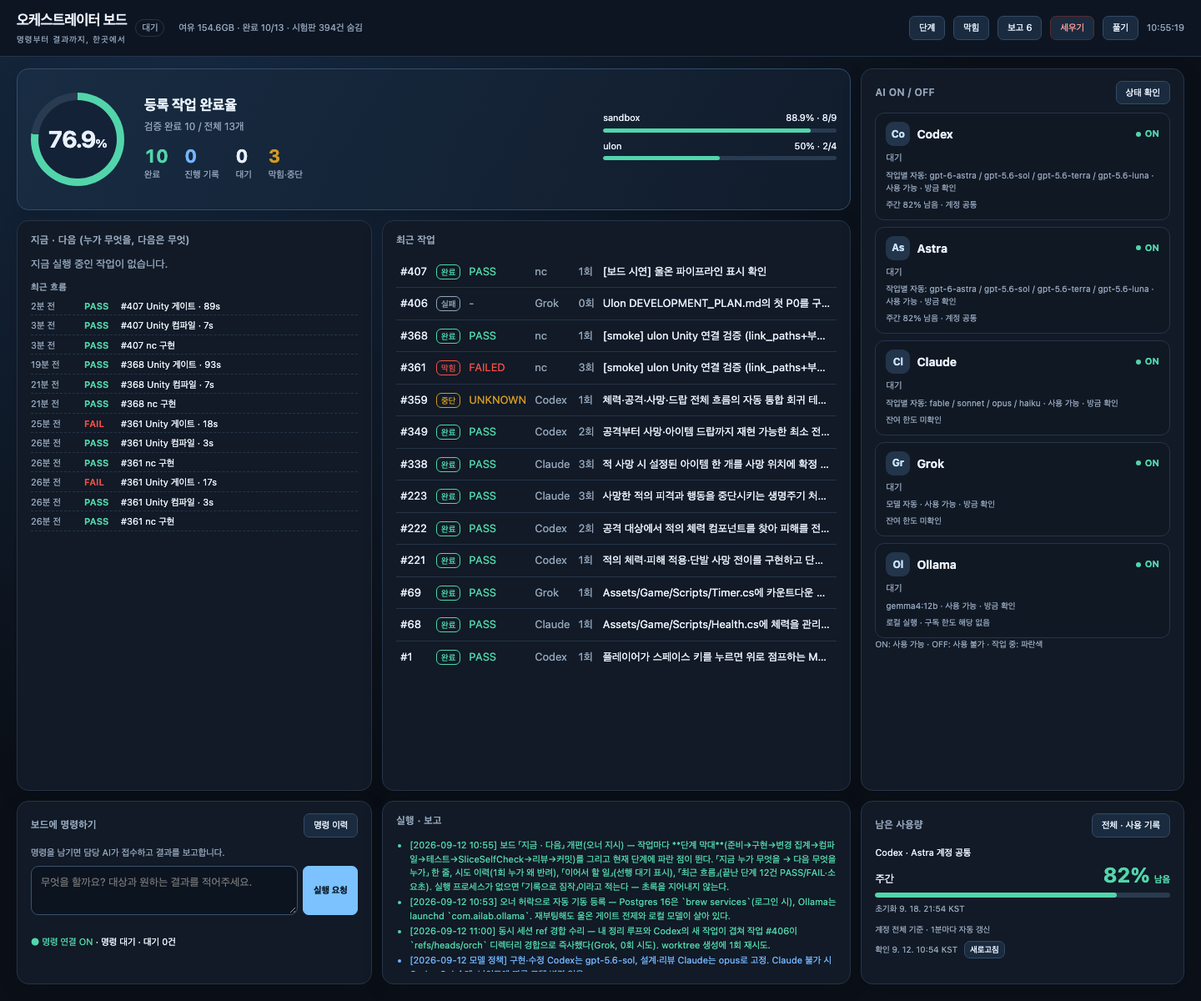
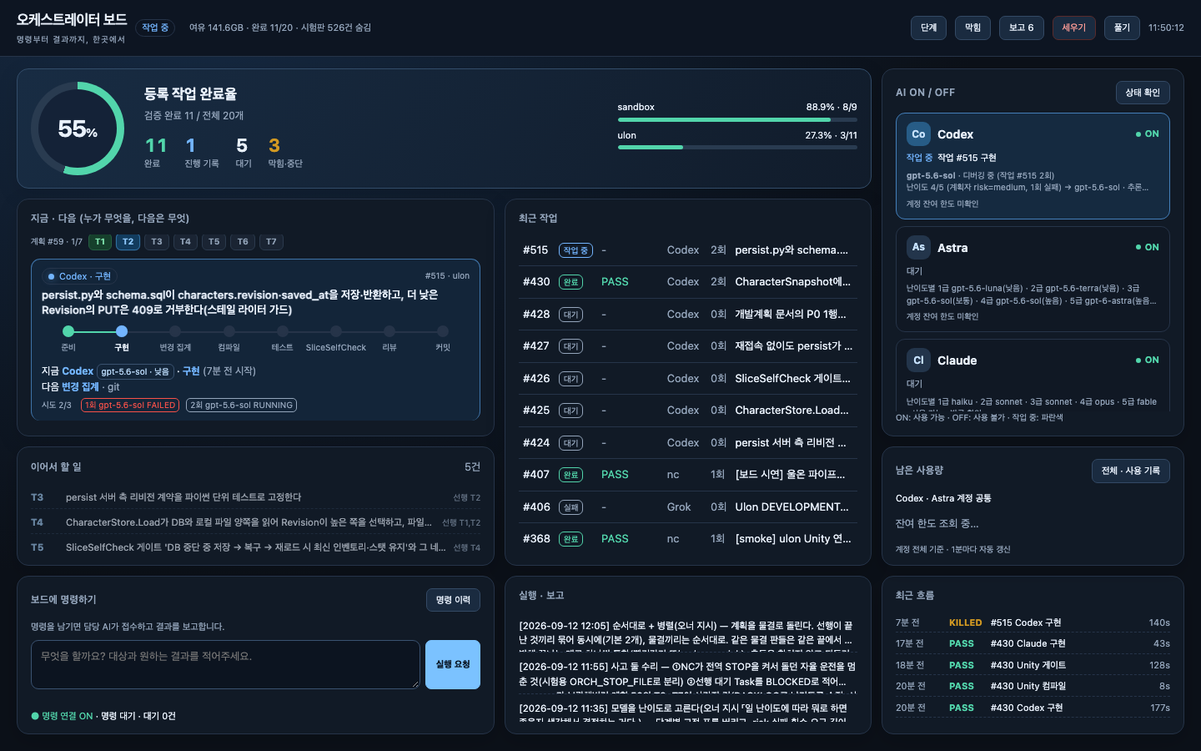
feat(board): 화면 개선 — 계획 진행 칩·병렬 판 나란히·대기열/흐름 카드 분리·실행 보고 접기
- 계획 진행 칩: 지금 도는 계획의 Task를 T1 완료 / T2 진행 / T3~ 대기로 한 줄에
- 「지금」은 auto-fit 격자 — 병렬로 두 판이 돌면 나란히 뜬다(세로로 쌓으면 아래가 화면 밖)
- 「이어서 할 일」·「최근 흐름」을 각자 카드로: 빈 여백이 사라지고 최근 작업이 두 배로 보인다
- 파이프라인: 테두리·모델 칩(gpt-5.6-sol · 낮음)·시도 이력 칩, 난이도 사유는 툴팁
- 실행·보고: 마크다운 기호를 걷어내고 두 줄로 접기(누르면 펼침, 위임 리스너)
- AI 카드: 난이도별 모델표를 두 줄로 클램프, 카드 안 스크롤
- 인라인 onclick의 따옴표가 템플릿 문자열을 깨뜨려 화면이 통째로 비었다 → node --check로 확인

diff --git a/projects/orchestrator/tools/board.py b/projects/orchestrator/tools/board.py
@@ -17,6 +17,7 @@ from __future__ import annotations
 
 import html
 import json
+import re
 import os
 import sqlite3
 import sys
@@ -426,6 +427,26 @@ def gather() -> dict:
         card['tiers'] = src.get('tiers') or []
         card['now'] = src.get('now')
         card['last'] = src.get('last')
+    # 지금 도는 계획의 Task를 한 줄 칩으로 — 어디까지 왔고 무엇이 남았는지가 한눈에 보이게.
+    plan_chips = {}
+    live_plan = next((t["plan_id"] for t in running if t["plan_id"]),
+                     next((t["plan_id"] for t in real if t["plan_id"] and t["status"] == "BACKLOG"), None))
+    if live_plan:
+        seen = {}
+        for r in sorted([t for t in all_tasks if t["plan_id"] == live_plan], key=lambda x: x["id"]):
+            key = r["plan_key"] or f"#{r['id']}"
+            st = r["status"]
+            if st == "ARCHIVED" and r["reason"] == "[계획 자리표시]":
+                continue                      # 자리표시는 상태가 아니다
+            prev = seen.get(key)
+            if prev and prev["state"] == "DONE":
+                continue
+            seen[key] = {"key": key, "state": st, "goal": r["goal"],
+                         "verdict": r["verdict"] or ""}
+        def _key_order(item):
+            m = re.match(r"[A-Za-z]*(\d+)", item["key"] or "")
+            return (int(m.group(1)) if m else 999, item["key"])
+        plan_chips = {"plan_id": live_plan, "items": sorted(seen.values(), key=_key_order)}
     overall = board_metrics.progress(real)
     targets = [{'target':name, **board_metrics.progress([t for t in real if t['target']==name])}
                for name in sorted({t['target'] for t in real})]
@@ -465,7 +486,7 @@ def gather() -> dict:
         "stopped": STOP.exists(),
         "free_gb": free,
         "current": cur,
-        "pipeline": pipeline, "upnext": upnext, "flow": flow,
+        "pipeline": pipeline, "upnext": upnext, "flow": flow, "plan_chips": plan_chips,
         "tasks": [dict(t) for t in tasks],
         "blocked": [dict(t) for t in blocked],
         "live": [dict(p) for p in live],
@@ -514,7 +535,7 @@ h1{font-size:15px;margin:0;font-weight:600}
       grid-template-rows:auto minmax(0,1fr) auto;flex:1;min-height:0;
       grid-template-areas:"now tasks phases" "stuck tasks prov" "cmd exec usage"}
 @media (max-width:900px){body{height:auto;overflow:auto}.grid{flex:none;grid-template-columns:1fr;
-      grid-template-areas:"now" "tasks" "exec" "stuck" "prov" "phases" "cmd" "usage"}}
+      grid-template-areas:"now" "queue" "tasks" "flow" "exec" "stuck" "prov" "phases" "cmd" "usage"}}
 #c-now{grid-area:now}#c-tasks{grid-area:tasks}#c-phases{grid-area:phases}
 #c-stuck{grid-area:stuck}#c-cmd{grid-area:cmd}#c-exec{grid-area:exec}#c-usage{grid-area:usage}#c-prov{grid-area:prov}
 /* 상세는 한 화면 철칙을 깨지 않도록 덮어서 띄운다 — 목록이 밀려나면 전체가 안 보인다. */
@@ -555,10 +576,16 @@ header{min-height:64px;flex-wrap:wrap;gap:10px;padding:12px 20px;background:#0d1
 .brand small{display:block;color:var(--mute);font-size:10px;letter-spacing:1.2px;margin-top:2px}
 h1{font-size:17px;letter-spacing:-.4px}
 #disk{border:0}#clock{font-size:11px}
-.grid{padding:14px 20px 20px;gap:12px;grid-template-columns:minmax(0,1.1fr) minmax(0,1.45fr) minmax(270px,1fr);
- grid-template-rows:170px minmax(190px,1fr) 220px;grid-template-areas:"progress progress prov" "now tasks prov" "cmd exec usage"}
+.grid{padding:14px 20px 20px;gap:12px;grid-template-columns:minmax(0,1.5fr) minmax(0,1.15fr) minmax(280px,.95fr);
+ grid-template-rows:144px minmax(250px,1.2fr) minmax(120px,.6fr) 190px;
+ grid-template-areas:"progress progress prov" "now tasks prov" "queue tasks usage" "cmd exec flow"}
 #c-progress{grid-area:progress;background:linear-gradient(120deg,#182c43,#111c2b);border-color:#334d6a}
 #c-phases,#c-stuck{display:none}
+#c-now{grid-area:now}#c-queue{grid-area:queue}#c-flow{grid-area:flow}#c-tasks{grid-area:tasks}
+/* 병렬로 두 판이 돌면 나란히 — 세로로 쌓으면 아래쪽 판이 화면 밖으로 밀린다 */
+#now{display:grid;gap:10px;grid-template-columns:repeat(auto-fit,minmax(330px,1fr));align-items:start;overflow:auto;min-height:0}
+#c-now{min-height:0}#queue,#flow,#tasks,#execlog{overflow:auto;min-height:0}
+#now>.mute,#now>.upnext{grid-column:1/-1}
 .card{border-radius:14px;padding:14px 16px;box-shadow:0 7px 24px #0002}
 .card h2{letter-spacing:.03em;font-size:12px;margin-bottom:10px}
 .card-head{display:flex;align-items:center;justify-content:space-between;gap:8px;flex-shrink:0}
@@ -576,8 +603,41 @@ h1{font-size:17px;letter-spacing:-.4px}
 .ai-head{display:flex;align-items:center;gap:8px}.ai-avatar{display:grid;place-items:center;width:29px;height:29px;border-radius:9px;background:#23354b;color:#c8e3ff;font-weight:700;font-size:12px}
 .ai-name{font-size:14px;font-weight:650;flex:1}.power{font-weight:700;font-size:11px;display:flex;align-items:center;gap:5px}.power:before{content:"";width:6px;height:6px;border-radius:50%;background:currentColor}.power.on{color:var(--ok)}.power.off{color:#9aa4b5}.power.unknown{color:#e2b46d}
 .ai-work{font-size:11px;margin-top:6px;display:flex;gap:6px;flex-wrap:wrap}.ai-meta{font-size:10px;color:var(--mute);margin-top:5px}.busy .ai-avatar{background:#275c86}.live-dot{display:inline-block;width:7px;height:7px;border-radius:50%;background:var(--run);box-shadow:0 0 10px #73b5ff80;margin-right:6px}
-.pipe{border-bottom:1px solid var(--line);padding:8px 0 12px}.pipe:last-child{border-bottom:0}.pipe h3{font-size:13px;margin:4px 0 8px;font-weight:550}.pipe .meta{font-size:11px;color:var(--mute);margin-top:6px}
-.steps{display:flex;align-items:flex-start;gap:0;overflow-x:auto;padding:4px 0}.step{display:flex;flex-direction:column;align-items:center;min-width:64px;flex:1;position:relative;font-size:10px;color:var(--mute);text-align:center}.step:not(:last-child):after{content:"";position:absolute;top:7px;left:50%;width:100%;height:2px;background:var(--line);z-index:0}.step.done:not(:last-child):after{background:var(--ok)}.step .dot{width:14px;height:14px;border-radius:50%;background:var(--line);border:2px solid var(--line);z-index:1;box-sizing:border-box}.step.done .dot{background:var(--ok);border-color:var(--ok)}.step.cur .dot{background:var(--run,#4ea1ff);border-color:var(--run,#4ea1ff);box-shadow:0 0 0 4px rgba(78,161,255,.25);animation:pulse 1.4s infinite}.step.cur{color:var(--fg,#e6ebf2);font-weight:650}.step .nm{margin-top:5px;white-space:nowrap}.step .wh{font-size:9px;opacity:.8}
+.pipe{border:1px solid var(--line);border-radius:11px;padding:10px 12px;background:#101824}
+.pipe.live{border-color:#3f74a8;background:#132539}
+.pipe-top{display:flex;align-items:center;justify-content:space-between;gap:8px}
+.pipe-id{font-size:10px;color:var(--mute);white-space:nowrap}
+.pipe h3{font-size:12.5px;margin:6px 0 8px;font-weight:600;line-height:1.35;display:-webkit-box;-webkit-line-clamp:2;-webkit-box-orient:vertical;overflow:hidden}
+.chip{display:inline-block;border:1px solid #3a5270;border-radius:6px;padding:1px 5px;font-size:10px;color:#b7d6f5;white-space:nowrap}
+.why{font-size:10px;color:var(--mute);margin-top:6px;line-height:1.4}
+.try{display:inline-block;border:1px solid currentColor;border-radius:5px;padding:0 4px;margin-right:4px}
+.planbar{display:flex;flex-wrap:wrap;gap:5px;align-items:center;margin:-2px 0 10px}
+.plan-label{font-size:10px;color:var(--mute);margin-right:2px}
+.pchip{font-size:10px;font-weight:700;border-radius:6px;padding:2px 7px;border:1px solid transparent}
+.pchip.done{background:#16402c;color:#7ee2ad;border-color:#265f42}
+.pchip.run{background:#123c5e;color:#8fcaff;border-color:#2f6f9f;animation:pulse 1.6s infinite}
+.pchip.wait{background:#1a2433;color:#8fa0b5;border-color:#2b3a4d}
+.pchip.bad{background:#4a2027;color:#ff9f9f;border-color:#733742}
+.exlist{list-style:none;margin:0;padding:0;font-size:11.5px}
+.exlist li{padding:6px 0;border-bottom:1px dashed var(--line);line-height:1.5;cursor:pointer;
+  display:-webkit-box;-webkit-line-clamp:2;-webkit-box-orient:vertical;overflow:hidden}
+.exlist li.open{-webkit-line-clamp:unset;display:block}
+.exlist li:last-child{border-bottom:0}
+#prov{overflow:auto}
+.ai-meta{line-height:1.45;display:-webkit-box;-webkit-line-clamp:2;-webkit-box-orient:vertical;overflow:hidden}
+#c-prov{min-height:0}#prov{min-height:0;flex:1}
+.qlist{list-style:none;margin:0;padding:0;font-size:11.5px;counter-reset:q}
+.qlist li{display:grid;grid-template-columns:34px minmax(0,1fr) auto;gap:8px;align-items:baseline;padding:5px 0;border-bottom:1px dashed var(--line)}
+.qlist li:last-child{border-bottom:0}.qlist .qkey{font-weight:700;color:#9fc7ee}
+.qlist .qgoal{white-space:nowrap;overflow:hidden;text-overflow:ellipsis}
+.qlist .qmeta{font-size:10px;color:var(--mute);white-space:nowrap}
+.qlist li.wait{opacity:.62}
+.flist{list-style:none;margin:0;padding:0;font-size:11px}
+.flist li{display:grid;grid-template-columns:58px 44px minmax(0,1fr) 42px;gap:6px;align-items:baseline;padding:3px 0;border-bottom:1px dashed var(--line)}
+.flist li:last-child{border-bottom:0}.flist .t,.flist .s{color:var(--mute)}.flist .r{font-weight:700}
+.flist .w{white-space:nowrap;overflow:hidden;text-overflow:ellipsis}.flist .s{text-align:right}
+.pipe-old{border-bottom:1px solid var(--line);padding:8px 0 12px}.pipe:last-child{border-bottom:0}.pipe h3{font-size:13px;margin:4px 0 8px;font-weight:550}.pipe .meta{font-size:11px;color:var(--mute);margin-top:6px}
+.steps{display:flex;align-items:flex-start;gap:0;overflow-x:auto;padding:2px 0 4px}.step{display:flex;flex-direction:column;align-items:center;min-width:64px;flex:1;position:relative;font-size:10px;color:var(--mute);text-align:center}.step:not(:last-child):after{content:"";position:absolute;top:7px;left:50%;width:100%;height:2px;background:var(--line);z-index:0}.step.done:not(:last-child):after{background:var(--ok)}.step .dot{width:14px;height:14px;border-radius:50%;background:var(--line);border:2px solid var(--line);z-index:1;box-sizing:border-box}.step.done .dot{background:var(--ok);border-color:var(--ok)}.step.cur .dot{background:var(--run,#4ea1ff);border-color:var(--run,#4ea1ff);box-shadow:0 0 0 4px rgba(78,161,255,.25);animation:pulse 1.4s infinite}.step.cur{color:var(--fg,#e6ebf2);font-weight:650}.step .nm{margin-top:5px;white-space:nowrap}.step .wh{font-size:9px;opacity:.8}
 @keyframes pulse{0%{box-shadow:0 0 0 0 rgba(78,161,255,.45)}70%{box-shadow:0 0 0 7px rgba(78,161,255,0)}100%{box-shadow:0 0 0 0 rgba(78,161,255,0)}}
 .nextline{font-size:12px;margin-top:8px}.nextline b{color:var(--run,#4ea1ff)}.tries{font-size:10px;color:var(--mute);margin-top:4px}.tries span{margin-right:8px}
 .upnext{margin-top:10px}.upnext h4,.flow h4{font-size:11px;color:var(--mute);margin:10px 0 4px;font-weight:600;text-transform:uppercase;letter-spacing:.04em}.upnext ol{margin:0;padding-left:18px;font-size:12px}.upnext li{margin:3px 0}.upnext .wait{color:var(--mute)}.flow ul{list-style:none;margin:0;padding:0;font-size:11px}.flow li{display:flex;gap:8px;padding:2px 0;border-bottom:1px dashed var(--line)}.flow li .t{color:var(--mute);min-width:56px}.flow li .r{min-width:36px;font-weight:600}
@@ -592,9 +652,9 @@ textarea:focus{outline:2px solid #73b5ff;outline-offset:1px}form{margin:8px 0;al
 #connection-status{font-size:10px}.connection-error{color:#ffbc86!important}
 #usage table{font-size:10px}#execlog{font-size:11px}#ovbox{background:#111c2b;border-color:#39516e;overflow-wrap:anywhere}
 .quota-row{margin:4px 0 10px}.quota-label{display:flex;justify-content:space-between;align-items:baseline;gap:8px}.quota-label strong{font-size:25px;font-variant-numeric:tabular-nums;line-height:1.2}.quota-row .track{margin:6px 0;height:6px}.quota-reset,.quota-meta{font-size:10px;color:var(--mute)}.quota-summary{font-size:11px;margin-bottom:4px}.quota-actions{display:flex;gap:8px;align-items:center;margin-top:6px}.quota-actions button{padding:2px 6px;font-size:10px}.quota-bucket{border-bottom:1px solid var(--line);padding:10px 0}.quota-bucket h3{margin:0 0 6px!important}.ai-quota{font-size:10px;color:var(--mute);margin-top:5px}
-@media(max-width:1050px) and (min-width:901px){.grid{grid-template-columns:minmax(0,1fr) minmax(0,1.2fr) 260px}.target-list{display:none}.counts{gap:14px}.progress-content{gap:16px}.ring{width:96px;height:96px}}
-@media(max-width:900px){header{position:relative;padding:12px;gap:8px}#disk,#clock{display:none}header button{padding:5px 8px}.brand{flex:1}.grid{padding:10px;display:grid;grid-template-columns:minmax(0,1fr);grid-template-rows:auto;grid-template-areas:"progress" "cmd" "now" "prov" "tasks" "exec" "usage";gap:10px}.card{min-height:100px}.progress-content{min-height:132px;gap:16px}.ring{width:98px;height:98px}.target-list{display:none}.counts{gap:18px}.ai-card{padding:12px}#c-cmd{min-height:198px}#prov{display:grid;grid-template-columns:repeat(2,minmax(0,1fr))}#ov{padding:12px}.ai-name{font-size:12px}.ai-head{gap:6px}.ai-avatar{width:23px;height:23px;font-size:10px}.power{font-size:10px}}
-@media(max-height:790px) and (min-width:901px){.grid{grid-template-rows:145px minmax(120px,1fr) 180px}.card{padding:10px 13px}.ring{width:95px;height:95px}.ai-card{padding:7px 10px}.ai-meta{margin-top:3px}.card h2{margin-bottom:6px}.target-list{max-height:90px}textarea{min-height:45px}.ai-work{margin-top:3px}}
+@media(max-width:1050px) and (min-width:901px){.grid{grid-template-columns:minmax(0,1.3fr) minmax(0,1fr) 250px}.target-list{display:none}.counts{gap:14px}.progress-content{gap:16px}.ring{width:96px;height:96px}}
+@media(max-width:900px){header{position:relative;padding:12px;gap:8px}#disk,#clock{display:none}header button{padding:5px 8px}.brand{flex:1}.grid{padding:10px;display:grid;grid-template-columns:minmax(0,1fr);grid-template-rows:auto;grid-template-areas:"progress" "cmd" "now" "queue" "prov" "tasks" "flow" "exec" "usage";gap:10px}.card{min-height:100px}.progress-content{min-height:132px;gap:16px}.ring{width:98px;height:98px}.target-list{display:none}.counts{gap:18px}.ai-card{padding:12px}#c-cmd{min-height:198px}#prov{display:grid;grid-template-columns:repeat(2,minmax(0,1fr))}#ov{padding:12px}.ai-name{font-size:12px}.ai-head{gap:6px}.ai-avatar{width:23px;height:23px;font-size:10px}.power{font-size:10px}}
+@media(max-height:790px) and (min-width:901px){.grid{grid-template-rows:132px minmax(180px,1.2fr) minmax(120px,.8fr) 175px}.card{padding:10px 13px}.ring{width:95px;height:95px}.ai-card{padding:7px 10px}.ai-meta{margin-top:3px}.card h2{margin-bottom:6px}.target-list{max-height:90px}textarea{min-height:45px}.ai-work{margin-top:3px}}
 
 </style>
 <header>
@@ -611,8 +671,10 @@ textarea:focus{outline:2px solid #73b5ff;outline-offset:1px}form{margin:8px 0;al
 </header>
 <div class=grid>
   <div class=card id=c-progress><div id=progress class=progress-content>진행률 확인 중…</div></div>
-  <div class=card id=c-now><h2>지금 · 다음 (누가 무엇을, 다음은 무엇)</h2><div id=now>…</div></div>
+  <div class=card id=c-now><h2>지금 · 다음 (누가 무엇을, 다음은 무엇)</h2><div id=plan-chips></div><div id=now>…</div></div>
   <div class=card id=c-tasks><h2>최근 작업</h2><div id=tasks>…</div></div>
+  <div class=card id=c-queue><div class=card-head><h2>이어서 할 일</h2><span id=queue-count class=mute></span></div><div id=queue>…</div></div>
+  <div class=card id=c-flow><h2>최근 흐름</h2><div id=flow>…</div></div>
   <div class=card id=c-phases><h2>단계</h2><div id=phases>…</div></div>
   <div class=card id=c-stuck><h2>막힘</h2><div id=stuck>…</div></div>
   <div class=card id=c-cmd><div class=card-head><h2>보드에 명령하기</h2><button onclick="commandHistory()">명령 이력</button></div>
@@ -634,22 +696,43 @@ function dn(d,name){return (d.ai_cards.find(c=>c.name===name)||{}).display_name|
 function renderNow(d){
   let h='';
   for(const p of d.pipeline){
-    h+=`<div class=pipe><span class="pill ${p.confirmed?'run':'warn'}">${p.confirmed?'<span class=live-dot></span>':''}${E(dn(d,p.who))} · ${E(p.steps[p.cur].name)}${p.confirmed?'':' (프로세스 없음 · 기록으로 짐작)'}</span>
-      <h3>작업 #${p.id} · ${E(p.goal)}</h3>
-      <div class=steps>${p.steps.map((s,i)=>`<div class="step ${i<p.cur?'done':(i===p.cur?'cur':'')}"><div class=dot></div><div class=nm>${E(s.name)}</div><div class=wh>${E(dn(d,s.who))}</div></div>`).join('')}</div>
-      <div class=nextline>지금 <b>${E(dn(d,p.who))}</b>${p.model?` <span class=mute>(${E(p.model)}${(d.ai_cards.find(c=>c.name===p.who)||{}).effort?' · 난이도 '+E(EFF((d.ai_cards.find(c=>c.name===p.who)||{}).effort)):''}${p.kind?' · '+E(KIND(p.kind)):''})</span>`:''}가 <b>${E(p.steps[p.cur].name)}</b> (${E(p.since)} 시작) → 다음 <b>${E(p.next)}</b>${p.next_who!=='-'?' · '+E(dn(d,p.next_who)):''}</div>
-      ${p.why_model?`<div class=tries><span class=mute>모델 선택: ${E(p.why_model)}</span></div>`:''}
-      <div class=tries>시도 ${p.attempt}/${p.max_attempts} ${p.history.map(x=>`<span class="${VC[x.status]||'mute'}">${x.n}회 ${E(dn(d,x.agent))}${x.model?' · '+E(x.model):''} ${E(x.status)}${x.reason?' — '+E(x.reason):''}</span>`).join('')}</div>
-      <div class=meta>${E(p.target)} · ${E(p.branch)}</div></div>`;
+    const card=d.ai_cards.find(c=>c.name===p.who)||{};
+    h+=`<div class="pipe${p.confirmed?' live':''}"><div class=pipe-top><span class="pill ${p.confirmed?'run':'warn'}">${p.confirmed?'<span class=live-dot></span>':''}${E(dn(d,p.who))} · ${E(p.steps[p.cur].name)}</span>
+      <span class=pipe-id>#${p.id} · ${E(p.target)}</span></div>
+      <h3 title="${E(p.goal)}">${E(p.goal)}</h3>
+      <div class=steps>${p.steps.map((s,i)=>`<div class="step ${i<p.cur?'done':(i===p.cur?'cur':'')}" title="${E(s.name)} · ${E(dn(d,s.who))}"><div class=dot></div><div class=nm>${E(s.name)}</div></div>`).join('')}</div>
+      <div class=nextline>지금 <b>${E(dn(d,p.who))}</b>${p.model?` <span class=chip>${E(p.model)}${card.effort?' · '+E(EFF(card.effort)):''}</span>`:''} · <b>${E(p.steps[p.cur].name)}</b> <span class=mute>(${E(p.since)} 시작)</span><br>다음 <b>${E(p.next)}</b>${p.next_who!=='-'?' <span class=mute>· '+E(dn(d,p.next_who))+'</span>':''}${p.confirmed?'':' <span class=warn>· 실행 프로세스 없음(기록으로 짐작)</span>'}</div>
+      <div class=tries title="${E(p.why_model||'')}"><span class=mute>시도 ${p.attempt}/${p.max_attempts}</span> ${p.history.map(x=>`<span class="try ${VC[x.status]||'mute'}" title="${E(x.reason||'')}">${x.n}회 ${E(x.model||dn(d,x.agent))} ${E(x.status)}</span>`).join('')}</div></div>`;
   }
   for(const a of d.activities.filter(a=>!a.task_id)){
-    h+=`<div class=activity><span class="pill run"><span class=live-dot></span>${E(dn(d,a.ai))} · ${E(a.stage)}</span><h3>${E(a.label)} · ${E(a.goal)}</h3><small>${E(a.since)} 시작 · 명령을 읽고 orch plan/run으로 옮기는 중 → 다음: 작업(task)이 이 칸에 파이프라인으로 뜬다</small></div>`;
+    h+=`<div class="pipe live"><div class=pipe-top><span class="pill run"><span class=live-dot></span>${E(dn(d,a.ai))} · ${E(a.stage)}</span><span class=pipe-id>${E(a.label)}</span></div>
+      <h3 title="${E(a.goal)}">${E(a.goal)}</h3><div class=nextline><span class=mute>${E(a.since)} 시작 · 명령을 읽어 계획으로 옮기는 중 → 다음: 작업이 이 칸에 파이프라인으로 뜬다</span></div></div>`;
   }
-  if(!h) h=d.current?`<div class=activity><h3>작업 #${d.current.id} · ${E(d.current.goal)}</h3><p class=warn>실행 프로세스 확인 대기</p></div>`:'<div class=mute>지금 실행 중인 작업이 없습니다.</div>';
-  if(d.upnext.length) h+=`<div class=upnext><h4>이어서 할 일 (순서대로)</h4><ol>${d.upnext.map(u=>`<li class="${u.ready?'':'wait'}">${u.key?E(u.key)+' · ':''}${E(u.goal).slice(0,70)} <span class=mute>· ${E(dn(d,u.agent))}${u.deps.length?' · '+(u.ready?'선행 완료':'선행 대기: '+E(u.deps.join(',')))+'':''}</span></li>`).join('')}</ol></div>`;
-  if(d.flow.length) h+=`<div class=flow><h4>최근 흐름</h4><ul>${d.flow.map(f=>`<li><span class=t>${E(f.when)}</span><span class="r ${f.ok?'ok':(f.status==='EXITED'?'bad':'warn')}">${f.ok?'PASS':E(f.status==='EXITED'?'FAIL':f.status)}</span><span>${f.task_id?'#'+f.task_id+' ':''}${E(dn(d,f.who))} ${E(f.stage)}${f.secs?' · '+f.secs+'s':''}</span></li>`).join('')}</ul></div>`;
+  if(!h) h=d.current?`<div class=pipe><h3>작업 #${d.current.id} · ${E(d.current.goal)}</h3><p class=warn>실행 프로세스 확인 대기</p></div>`:'<div class=mute>지금 실행 중인 작업이 없습니다. 자율 운전이 다음 주기에 새 일을 집습니다.</div>';
   return h;
 }
+const CHIP_STATE={DONE:'done',RUNNING:'run',BACKLOG:'wait',BLOCKED:'bad',FAILED:'bad',
+  INTERRUPTED:'bad',STOPPED:'bad',ARCHIVED:'wait',REVIEW:'run',TESTING:'run'};
+function renderPlanChips(d){
+  const pc=d.plan_chips;
+  if(!pc||!pc.items||!pc.items.length) return '';
+  const done=pc.items.filter(i=>i.state==='DONE').length;
+  return `<div class=planbar><span class=plan-label>계획 #${pc.plan_id} · ${done}/${pc.items.length}</span>`
+    +pc.items.map(i=>`<span class="pchip ${CHIP_STATE[i.state]||'wait'}" title="${E(i.goal)}">${E(i.key)}</span>`).join('')+`</div>`;
+}
+function renderQueue(d){
+  document.getElementById('queue-count').textContent=d.upnext.length?`${d.upnext.length}건`:'';
+  if(!d.upnext.length) return '<div class=mute>대기 중인 일이 없습니다.</div>';
+  return `<ol class=qlist>${d.upnext.map(u=>`<li class="${u.ready?'ready':'wait'}"><span class=qkey>${E(u.key||'-')}</span><span class=qgoal title="${E(u.goal)}">${E(u.goal)}</span><span class=qmeta>${u.ready?'바로 가능':'선행 '+E(u.deps.join(','))}</span></li>`).join('')}</ol>`;
+}
+function renderFlow(d){
+  if(!d.flow.length) return '<div class=mute>기록 없음</div>';
+  return `<ul class=flist>${d.flow.map(f=>`<li><span class=t>${E(f.when)}</span><span class="r ${f.ok?'ok':(f.status==='EXITED'?'bad':'warn')}">${f.ok?'PASS':E(f.status==='EXITED'?'FAIL':f.status)}</span><span class=w>${f.task_id?'#'+f.task_id+' ':''}${E(dn(d,f.who))} ${E(f.stage)}</span><span class=s>${f.secs?f.secs+'s':''}</span></li>`).join('')}</ul>`;
+}
+document.addEventListener('click', ev => {
+  const li = ev.target.closest('.exitem');
+  if (li) li.classList.toggle('open');
+});
 async function load(){
   const response=await fetch('/api'); if(!response.ok)throw new Error('보드 응답 '+response.status);
   const d=await response.json();
@@ -668,6 +751,9 @@ async function load(){
       <div class=counts><div class=count><strong class=ok>${pr.done}</strong><span>완료</span></div><div class=count><strong class=run>${pr.running}</strong><span>진행 기록</span></div><div class=count><strong>${pr.waiting}</strong><span>대기</span></div><div class=count><strong class=warn>${pr.blocked}</strong><span>막힘·중단</span></div></div></div>
     <div class=target-list>${d.target_progress.map(t=>`<div class=target-row><div class=target-label><span>${E(t.target)}</span><span>${t.percent??'—'}% · ${t.done}/${t.total}</span></div><div class=track><span style="width:${t.percent??0}%"></span></div></div>`).join('')}</div>`;
   document.getElementById('now').innerHTML=renderNow(d);
+  document.getElementById('plan-chips').innerHTML=renderPlanChips(d);
+  document.getElementById('queue').innerHTML=renderQueue(d);
+  document.getElementById('flow').innerHTML=renderFlow(d);
 
   const stuck=[...d.blocked.map(t=>`<li><span class="${SC[t.status]||'mute'}">#${t.id}</span> ${E(t.reason||t.goal).slice(0,60)}</li>`),
                ...d.stuck.map(s=>`<li class=mute>${E(s).slice(0,70)}</li>`)];
@@ -682,9 +768,13 @@ async function load(){
     const done=p.includes('완료'), wait=p.includes('대기');
     return `<li class="${done?'ok':(wait?'mute':'run')}">${E(p)}</li>`;}).join('')+'</ul>';
 
-  document.getElementById('execlog').innerHTML=d.execlog.length?
-    '<ul>'+d.execlog.map(x=>{const done=x.startsWith('[x]'), hold=x.startsWith('[-]');
-      return `<li class="${done?'ok':(hold?'mute':'run')}">${E(x.replace(/^\\[.\\] /,''))}</li>`;}).join('')+'</ul>':'<div class=mute>없음</div>';
+  document.getElementById('execlog').innerHTML=d.execlog.length
+    ? '<ul class=exlist>'+d.execlog.map(x=>{
+        const t=String(x).replace(/[*]{2}/g,'').replace(/\u0060/g,'')
+          .replace(/^\s*[-*]\s*/,'').replace(/^\[[ xX]\]\s*/,'');
+        return '<li class=exitem title="누르면 펼쳐집니다">'+E(t)+'</li>';
+      }).join('')+'</ul>'
+    : '<div class=mute>기록 없음</div>';
   const cq=d.command_queue;
   if(!document.getElementById('ov').classList.contains('on'))window.commandItems=cq.items; window.commandLabels=cq.labels;
   const pending=cq.counts.QUEUED||0;

diff --git a/projects/orchestrator/BOARD.md b/projects/orchestrator/BOARD.md
@@ -46,6 +46,7 @@
 ## 결정대기
 
 ## 실행
+- [x] [2026-09-12 11:50] **보드 화면 개선**(오너 지시) — ①계획 진행 칩(T1 완료·T2 진행·T3~T7 대기)을 「지금」 맨 위에 ②병렬 판이 나란히 뜨도록 자동 배치 격자로 ③「이어서 할 일」·「최근 흐름」을 각자 카드로 분리(빈 여백 제거, 「최근 작업」이 두 배로 길어짐) ④파이프라인 카드에 테두리·모델 칩·시도 이력 칩 ⑤「실행·보고」는 마크다운 기호를 걷어내고 두 줄로 접어 보여주고 누르면 펼침 ⑥AI 카드에 난이도별 모델표(1급 haiku … 5급 fable). 1440·1920·500px에서 확인.
 - [x] [2026-09-12 12:05] **순서대로 + 병렬**(오너 지시) — 계획을 물결로 돌린다. 선행이 끝난 것끼리 묶어 동시에(기본 2개), 물결끼리는 순서대로. 같은 물결 판들은 같은 끝에서 출발해 끝나는 대로 하나씩 통합(빨리감기 또는 cherry-pick), **충돌은 합치지 않고 되돌려 다시** 시킨다. 로그엔 `[T3]` 꼬리표. NC `parallel` 추가(51종).
 - [x] [2026-09-12 11:55] 사고 둘 수리 — ①NC가 전역 STOP을 켜서 **돌던 자율 운전을 멈춘** 것(시험용 `ORCH_STOP_FILE`로 분리) ②선행 대기 Task를 BLOCKED로 적어 requeue가 보관해버려 계획 59의 T3~T7이 사라진 것(BACKLOG로 남기도록 수정, 사라진 다섯은 되살림).
 - [x] [2026-09-12 11:35] **모델을 난이도로 고른다**(오너 지시 「일 난이도에 따라 뭐로 하면 좋을지 생각해서 결정하는 거다」) — 단계별 고정 표를 버리고, risk·실패 횟수·요구 길이·어려운 축 낱말·선행 개수로 1~5등급을 매겨 `model_tiers`로 옮긴다. 1급은 luna/haiku, 5급은 gpt-6-astra/fable. **사유를 함께 남긴다**(「난이도 4/5 (risk=high, 복구·정합성, 1회 실패) → gpt-5.6-sol · 추론 high」) — 보드 파이프라인에 그대로 뜬다. 실패하면 등급이 오르고, 설계·리뷰는 바닥(4·3)이 있다. NC `difficulty` 추가(50종).
